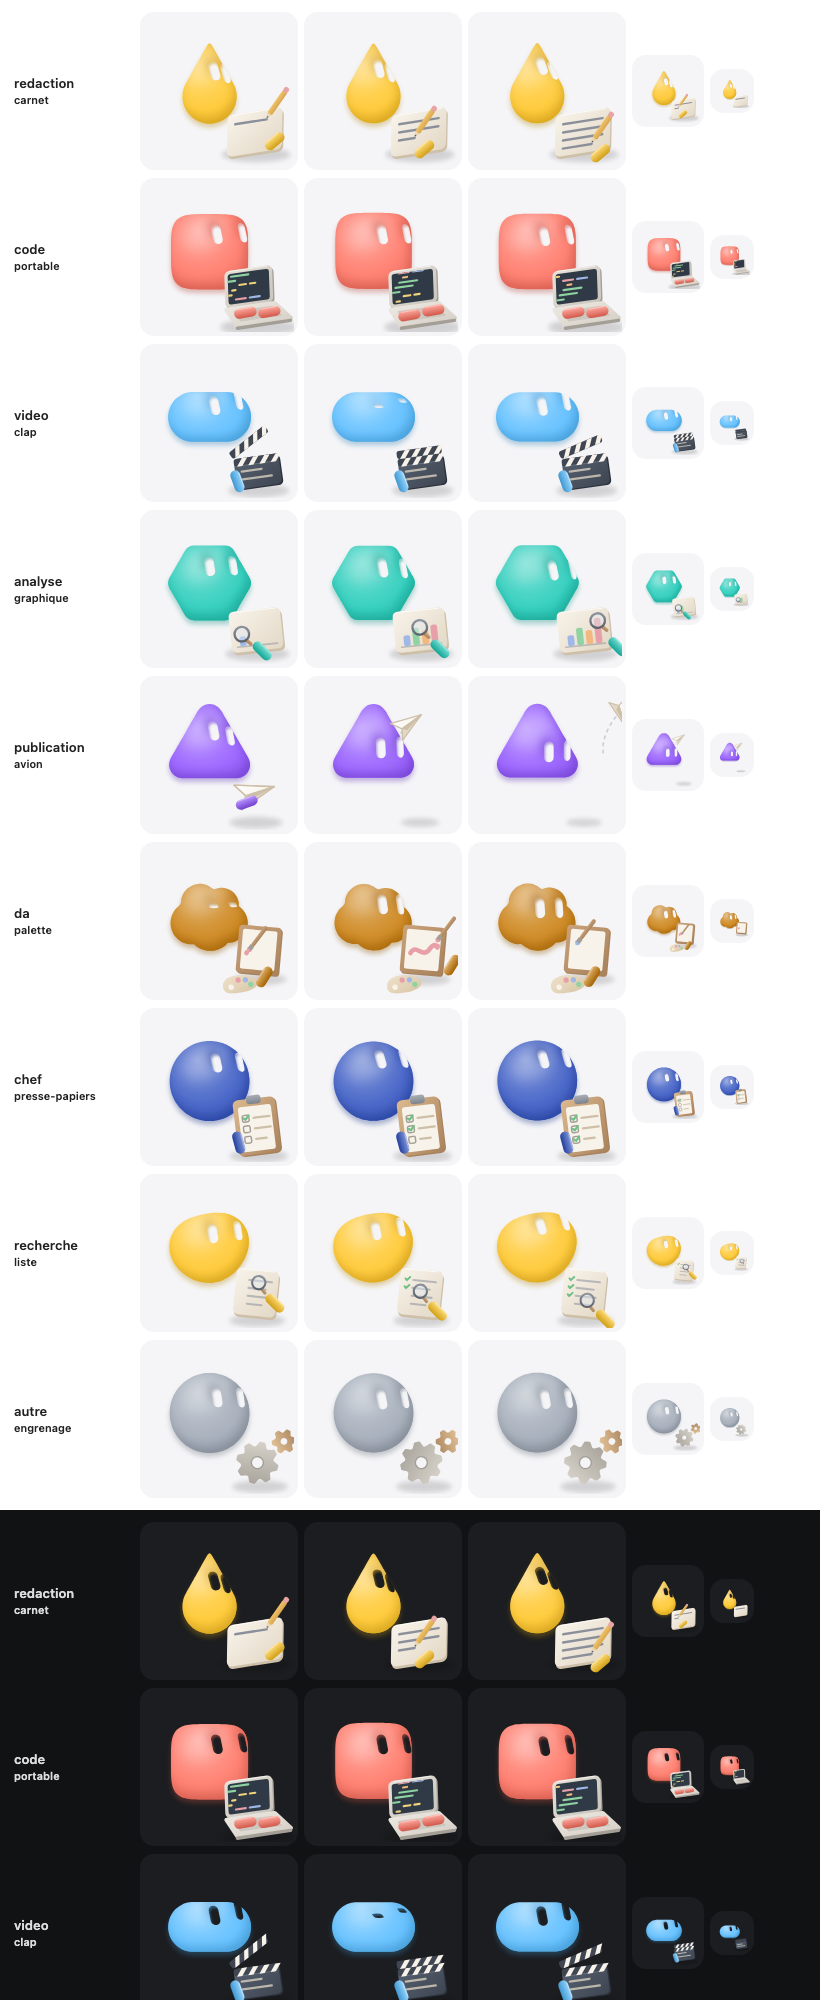
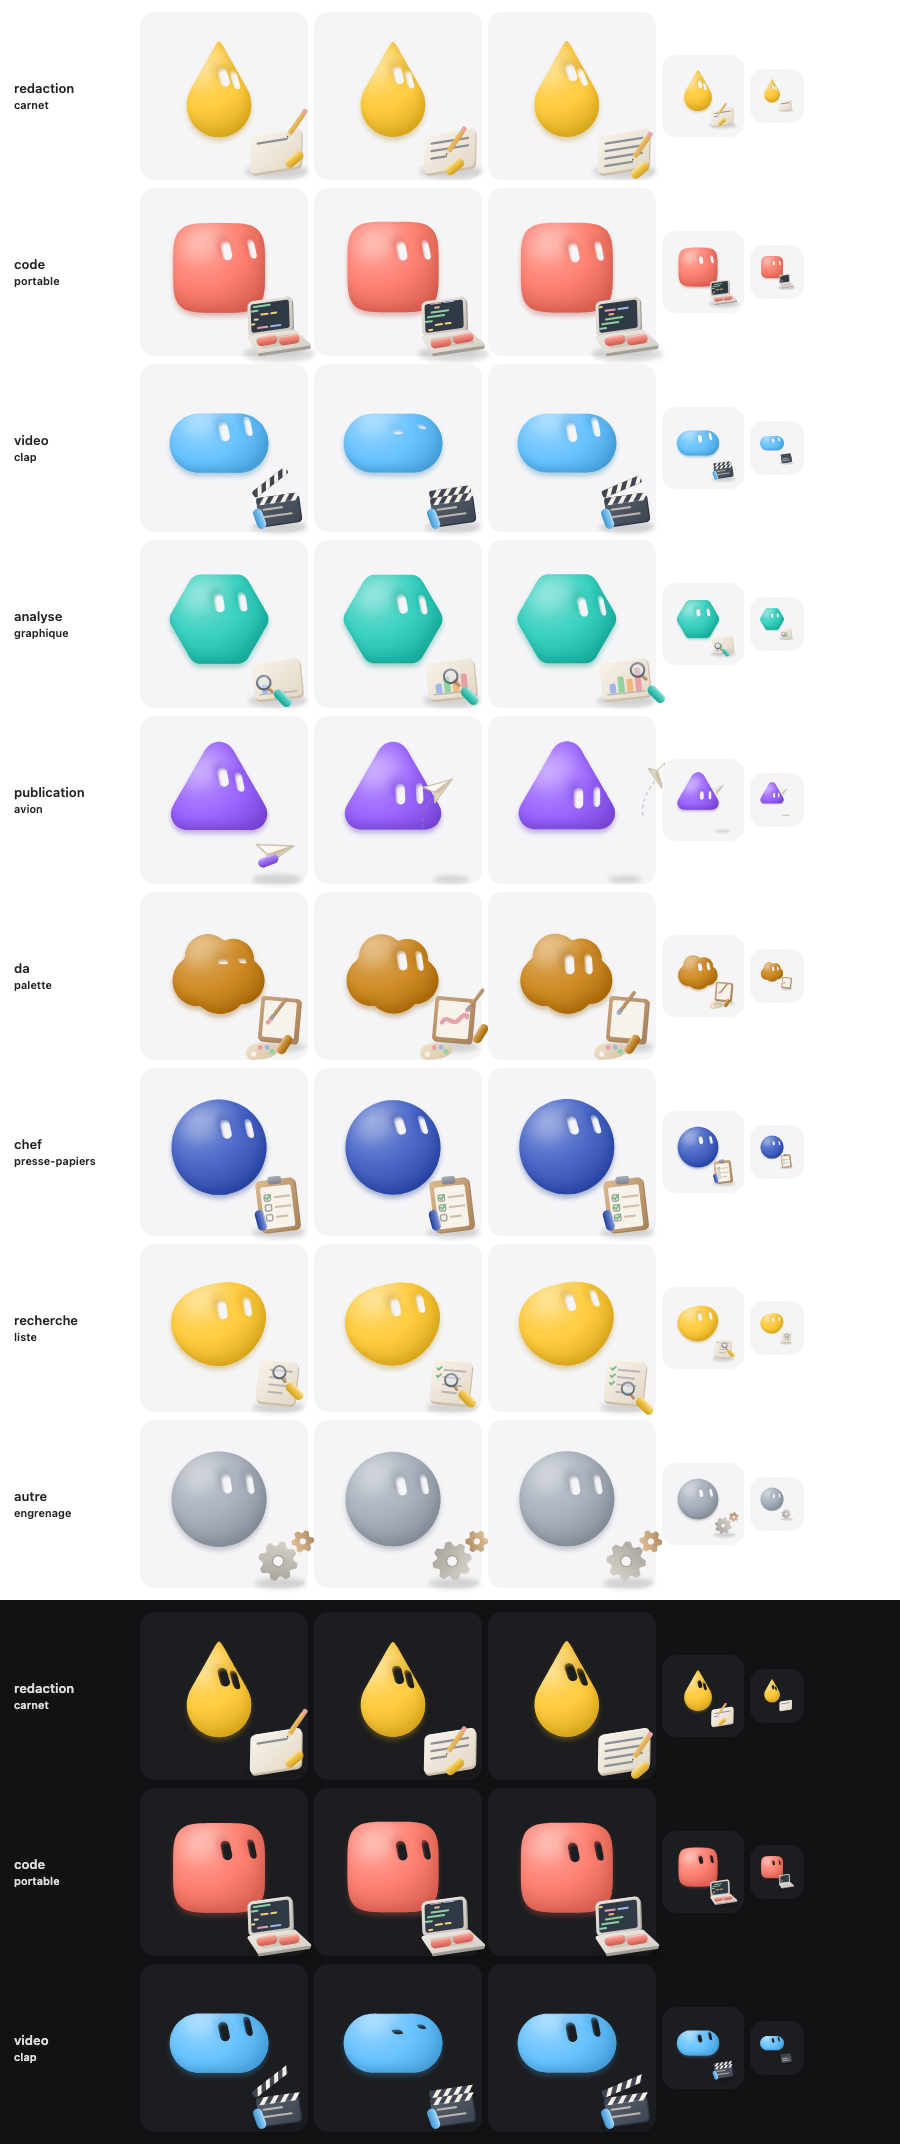
accessoires: le corps garde sa taille, l'objet se pose devant
Au travail, l'avatar garde exactement sa taille et sa place de repos :
l'objet est pose devant lui en bas a droite, au premier plan, en leger
chevauchement avec le bas du corps et en debordant un peu du cadre.
Rien de sombre sous les yeux (un ecran ou un clap pose sur le bas du
corps se lisait comme une bouche). Option generique
geste(t, { echelleCorps }) : 1 par defaut, sous 1 le corps rapetisse et
se range en haut a gauche. Tests, doc et planche mis a jour.

Claude-Session: https://claude.ai/code/session_01W5fu7ByrrBFSvr8x7FWJfj

diff --git a/src/bot/accessoires.ts b/src/bot/accessoires.ts
@@ -50,12 +50,23 @@ export interface DessinOptions {
   simple?: boolean
 }
 
+export interface GesteOptions {
+  /**
+   * echelle du corps sous accessoire (1 par defaut = taille de repos). Sous 1, le corps rapetisse
+   * et se range en haut a gauche pour laisser plus de place a l'objet.
+   */
+  echelleCorps?: number
+}
+
 export interface Accessoire {
   id: AccessoireId
   /** duree de la boucle, en secondes */
   boucle: number
-  /** geste de l'avatar qui travaille avec l'objet (il le regarde) */
-  geste: (t: number) => Geste
+  /**
+   * geste de l'avatar qui travaille avec l'objet (il le regarde). Par defaut le corps garde
+   * EXACTEMENT sa taille et sa place de repos (`echelleCorps` 1) : c'est l'objet qui s'adapte.
+   */
+  geste: (t: number, o?: GesteOptions) => Geste
   /** l'objet, en SVG texte, a dessiner PAR-DESSUS le corps */
   dessin: (t: number, o: DessinOptions) => string
 }
@@ -117,24 +128,26 @@ const coche = (x: number, y: number, k: number, f: number, epaisseur: number) =>
   trait(`M${n(x - 4 * k)} ${n(y)}l${n(3 * k)} ${n(3 * k)}l${n(6 * k)} ${n(-7 * k)}`, 14 * k, f, O.vert, epaisseur)
 
 /**
- * Regard vers l'objet, en bas a droite : le corps rapetisse un peu et remonte a gauche pour lui
- * laisser la place. `yaw`, `pitch`, `roll` sont des visees (degres, renforcees pour se lire en
- * petit) ; `dx`, `dy` s'ajoutent au decalage ; `sx`, `sy` multiplient la reduction.
+ * Regard vers l'objet, en bas a droite. Le corps ne bouge pas (taille et place de repos) :
+ * `yaw`, `pitch`, `roll` sont des visees (degres, renforcees pour se lire en petit) ; `dx`, `dy`,
+ * `sx`, `sy` ne portent que le petit mouvement du metier (frappe, hochement).
  */
 const versObjet = (p: Partial<Geste> = {}) =>
-  g({
-    ...p,
-    dx: -0.2 + (p.dx ?? 0),
-    dy: -0.13 + (p.dy ?? 0),
-    sx: 0.84 * (p.sx ?? 1),
-    sy: 0.84 * (p.sy ?? 1),
-    yaw: 1.15 * (p.yaw ?? 18),
-    pitch: 1.3 * (p.pitch ?? 14),
-    roll: p.roll ?? 3
-  })
+  g({ ...p, yaw: 1.15 * (p.yaw ?? 18), pitch: 1.3 * (p.pitch ?? 14), roll: p.roll ?? 3 })
 
-/** Place des objets : dessines autour de (100, 105), agrandis et ramenes vers le centre. */
-const PLACE = 'translate(-62 -62) scale(1.4)'
+/** Reduction facultative du corps (`echelleCorps` < 1) : il rapetisse et se range en haut a gauche. */
+const avecEchelle = (geste: Geste, o?: GesteOptions): Geste => {
+  const e = clamp(o?.echelleCorps ?? 1, 0.5, 1)
+  if (e === 1) return geste
+  return { ...geste, sx: geste.sx * e, sy: geste.sy * e, dx: geste.dx - 1.25 * (1 - e), dy: geste.dy - 0.8 * (1 - e) }
+}
+
+/**
+ * Place des objets : dessines autour de (100, 105), poses DEVANT l'avatar en bas a droite, hors
+ * du visage (rien de sombre sous les yeux), en leger chevauchement avec le bas du corps et en
+ * debordant un peu du cadre (le client laisse le SVG deborder : `overflow: visible`).
+ */
+const PLACE = 'translate(-8 -12) scale(1.3)'
 
 /** Loupe : anneau mat, verre teinte tres leger, manche. */
 const loupe = (o: DessinOptions, x: number, y: number, r: number) =>
@@ -527,7 +540,9 @@ const engrenage: Accessoire = {
   }
 }
 
-export const ACCESSOIRES: Accessoire[] = [carnet, portable, clap, graphique, avion, palette, pressePapiers, liste, engrenage]
+export const ACCESSOIRES: Accessoire[] = [carnet, portable, clap, graphique, avion, palette, pressePapiers, liste, engrenage].map(
+  (a): Accessoire => ({ ...a, geste: (t, o) => avecEchelle(a.geste(t), o) })
+)
 
 export const ACCESSOIRE_BY_ID = new Map(ACCESSOIRES.map((a) => [a.id, a]))
 

diff --git a/src/bot/accessoires.test.ts b/src/bot/accessoires.test.ts
@@ -39,13 +39,18 @@ describe('accessoires', () => {
     }
   })
 
-  it('le geste fait regarder vers l objet (en bas a droite) et laisse la place', () => {
+  it('le geste fait regarder vers l objet sans changer la taille ni la place du corps (echelleCorps 1)', () => {
     for (const a of ACCESSOIRES) {
       for (const t of temps) {
         const g = a.geste(t)
         expect(g.yaw).toBeGreaterThan(5)
-        expect(g.dx).toBeLessThan(0)
-        expect(g.sx).toBeLessThan(1)
+        expect(Math.abs(g.dx)).toBeLessThan(0.001)
+        expect(Math.abs(g.sx - 1)).toBeLessThan(0.02)
+        expect(Math.abs(g.sy - 1)).toBeLessThan(0.03)
+        const r = a.geste(t, { echelleCorps: 0.84 })
+        expect(r.sx).toBeLessThan(g.sx)
+        expect(r.dx).toBeLessThan(0)
+        expect(a.geste(t, { echelleCorps: 1 })).toEqual(g)
         expect(Number.isFinite(g.dx + g.dy + g.sx + g.sy + g.yaw + g.pitch + g.roll + g.lid)).toBe(true)
       }
     }

diff --git a/docs/accessoires.md b/docs/accessoires.md
@@ -2,8 +2,13 @@
 
 `src/bot/accessoires.ts` pose devant un avatar AU TRAVAIL un petit objet animé, dessiné en
 code dans le style 3D argile mat (dégradés doux, ombre portée floue, aucun reflet brillant),
-et le geste qui va avec : l'avatar rapetisse un peu, se range en haut à gauche et regarde son
-objet en bas à droite.
+et le geste qui va avec : l'avatar regarde son objet, en bas à droite.
+
+Le corps garde EXACTEMENT sa taille et sa place de repos : c'est l'objet qui s'adapte. Il est
+posé devant, au premier plan, en léger chevauchement avec le bas du corps et en débordant un
+peu du cadre (le client met `overflow: visible` sur le SVG). Rien de sombre n'est posé sous les
+yeux, pour qu'un objet ne se lise jamais comme une bouche. Option `geste(t, { echelleCorps })` :
+1 par défaut ; sous 1, le corps rapetisse et se range en haut à gauche pour laisser plus de place.
 
 ```ts
 import { BotEngine } from './engine'

diff --git a/README.md b/README.md
@@ -60,8 +60,9 @@ is byte-identical. Details (in French) in [docs/gestes.md](docs/gestes.md).
 matte clay style: a notebook and a pencil writing line by line, a laptop with scrolling
 coloured code and typing hands, a clapperboard, a bar chart under a magnifier, a paper
 plane that leaves and comes back, a canvas and a brush, a clipboard ticking itself, a
-list read with a magnifier, a gear. Each prop comes with a gesture (the avatar steps
-aside and looks at it). `dessin(t, options)` returns SVG text in the engine's frame;
+list read with a magnifier, a gear. Each prop comes with a gesture (the avatar looks
+at it); the body keeps its exact resting size and place, the prop sits in front of it
+(`echelleCorps` option to shrink the body instead). `dessin(t, options)` returns SVG text in the engine's frame;
 `simple: true` drops fine details for tiny sizes. Details (in French) in
 [docs/accessoires.md](docs/accessoires.md).
 
